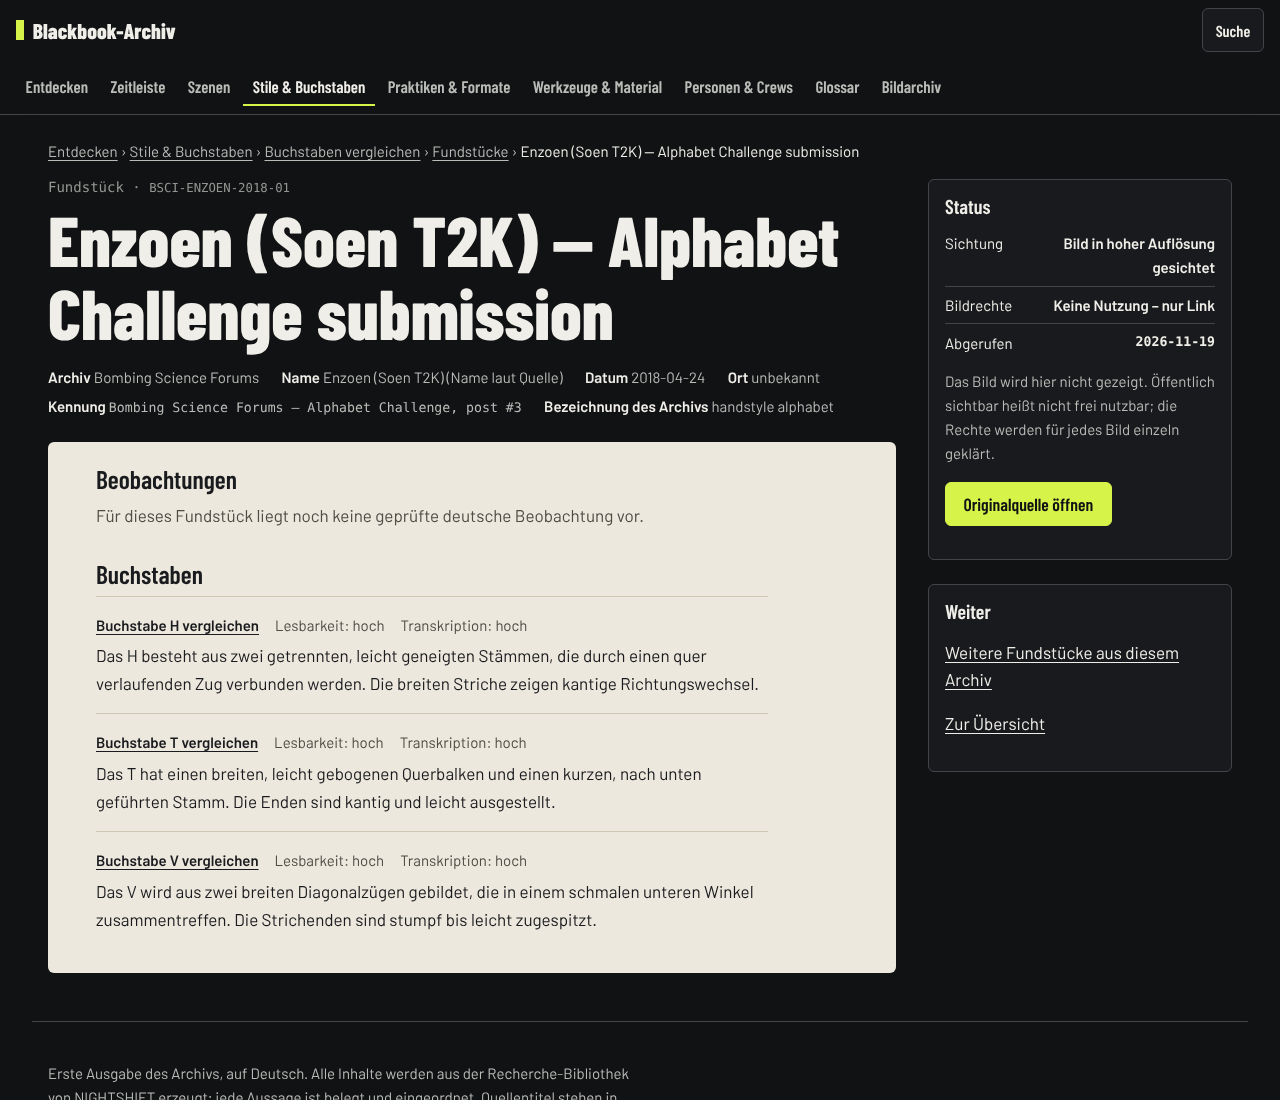
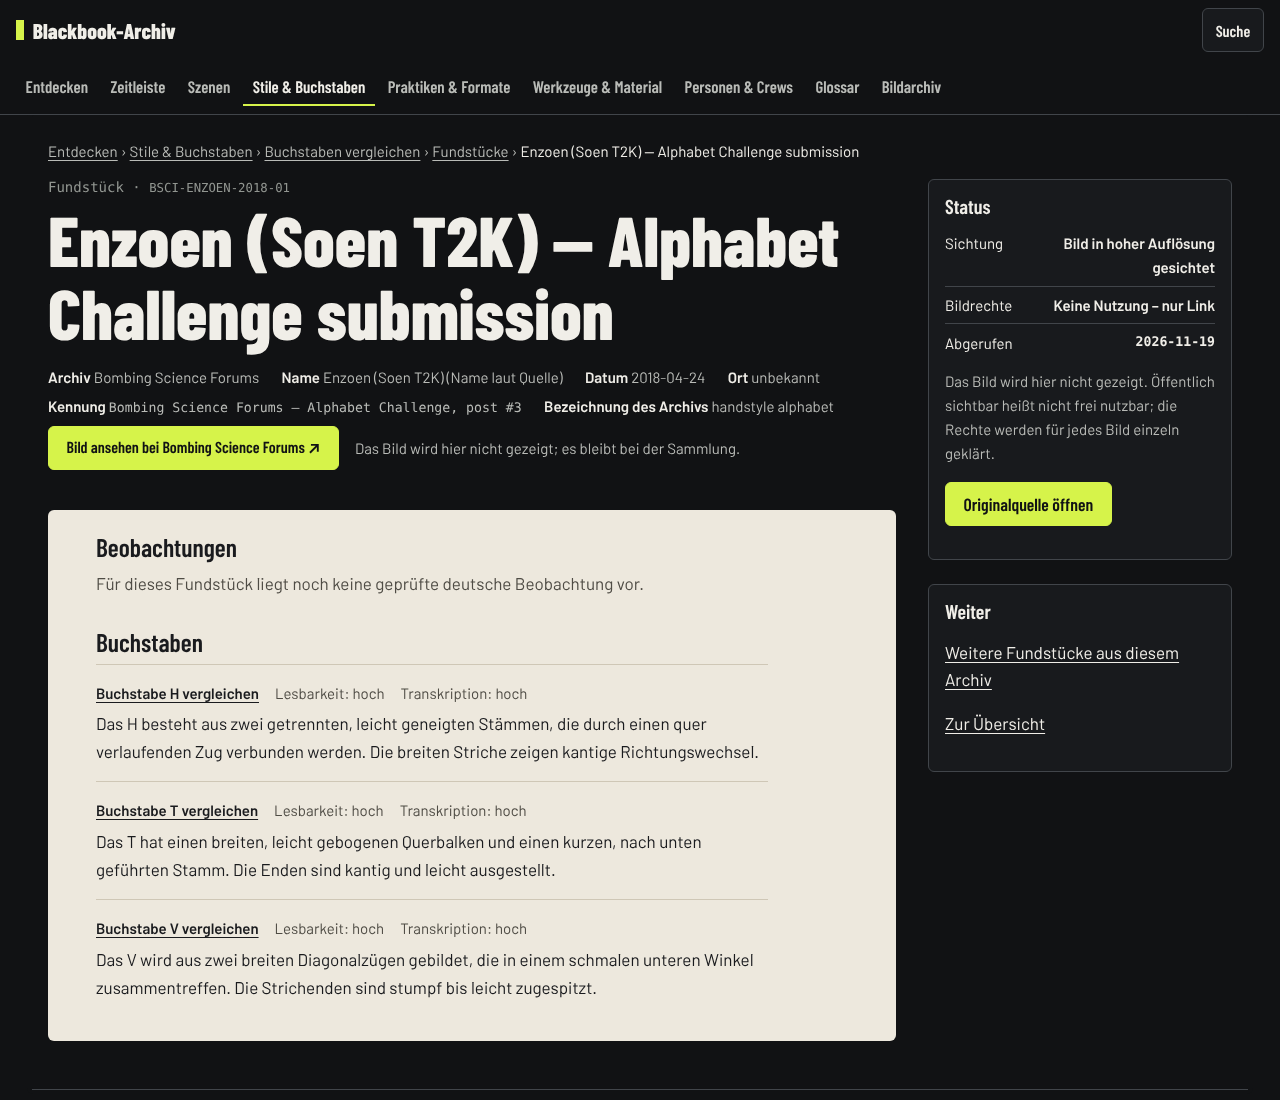
Comparison: prominent link to the original image on every card and specimen page
Images stay link-only (owner choice); the way to see the actual letter is now a
button at the top of each card instead of a small link at the bottom.

Agent: claude
Claude-Session: https://claude.ai/code/session_01FofYydZ98dQJsDhNPhugpd

Changed region(s): [[0.0312, 0.3709, 0.7188, 1.0]]

diff --git a/archive/comparison.js b/archive/comparison.js
@@ -19,6 +19,8 @@ export function comparisonViews(C, h) {
   const glyphsOf = (c) => C.glyphObservations.filter((g) => g.glyph === c);
   const findingsFor = (ids) => C.findings.filter((f) => f.observationIds.some((o) => ids.has(o)));
   const GATE_CLOSED = (g, k) => `<div class="empty"><p><strong>Buchstabenvergleich: Forschungsansicht im Aufbau.</strong></p><p>Ein Buchstabe wird erst verglichen, wenn er auf einem gesichteten Fundstück eindeutig erkennbar ist. Für den Start braucht es mindestens ${g.minEligibleGlyphObservations} solche Beobachtungen aus ${g.minIndependentInstitutions} verschiedenen Archiven bzw. Plattformen; vorhanden sind ${k.eligibleGlyphObservations} aus ${k.glyphInstitutions} (${k.glyphSources} Quellen, mehrere Quellen derselben Plattform zählen einmal). Bis dahin lassen sich die Fundstücke selbst durchsehen.</p></div>`;
+  // Images stay with the collections (link-only); this button is the way to see the actual letter.
+  const sourceBtn = (s) => `<p class="src-link"><a class="btn" href="${esc(s.itemUrl)}" rel="noopener" target="_blank">Bild ansehen bei ${esc(s.institution ?? 'der Quelle')} <span aria-hidden="true">↗</span><span class="sr"> (öffnet in neuem Tab)</span></a><span class="src-note">Das Bild wird hier nicht gezeigt; es bleibt bei der Sammlung.</span></p>`;
   const dateOf = (s) => (s.date ? `${s.dateQualifier === 'circa' ? 'um ' : ''}${s.date}` : null);
   const creatorOf = (s) => (s.creatorName ? `${esc(s.creatorName)} <span class="muted">(${esc(L.creatorAttribution[s.creatorAttribution])})</span>` : `<span class="muted">${esc(L.creatorAttribution[s.creatorAttribution])}</span>`);
 
@@ -132,6 +134,7 @@ export function comparisonViews(C, h) {
             <p class="kicker">Fundstück · <span class="mono">${esc(s.id)}</span></p>
             <h1>${esc(s.title)}</h1>
             <ul class="facts">${facts.map(([k, v]) => `<li><b>${k}</b> ${v}</li>`).join('')}</ul>
+            ${s.visualState === 'catalogue_metadata_only' ? '' : sourceBtn(s)}
           </header>
           <div class="sheet-paper"><div class="prose">
             <h2>Beobachtungen</h2>
@@ -170,10 +173,11 @@ export function comparisonViews(C, h) {
     ];
     return `<li class="cmp-card${selected ? ' is-selected' : ''}" data-cmp-card data-obs="${esc(o.id)}">
       <p class="kicker">${mode === 'feature' ? `Buchstabe ${esc(o.glyph)} · ` : ''}<span class="mono">${esc(o.id)}</span></p>
+      ${sourceBtn(s)}
       <p class="cmp-label">Direkte Beobachtung</p>
       <p class="cmp-obs">${esc(o.observationDe)}</p>
       <dl class="cmp-fields">${fields.map(([k, v]) => `<dt>${k}</dt><dd>${v}</dd>`).join('')}</dl>
-      <p class="cmp-actions">${toggleHref ? `<a class="chip" href="${toggleHref}" aria-pressed="${selected}">${selected ? 'Im Vergleich' : 'Zum Vergleich wählen'}</a>` : ''}<a href="${esc(s.itemUrl)}" rel="noopener" target="_blank">Originalquelle öffnen</a></p>
+      <p class="cmp-actions">${toggleHref ? `<a class="chip" href="${toggleHref}" aria-pressed="${selected}">${selected ? 'Im Vergleich' : 'Zum Vergleich wählen'}</a>` : ''}</p>
     </li>`;
   };
 

diff --git a/archive/app.css b/archive/app.css
@@ -252,3 +252,8 @@ mark { background: var(--bba-accent); color: var(--bba-bg); padding: 0 .1em; }
 .cmp-findings p { margin: var(--s2) 0; }
 .cmp-h3 { font-size: var(--step-1); margin: var(--s5) 0 var(--s2); }
 .cmp-findings li:first-child { border-top: 0; }
+.src-link { display: flex; flex-wrap: wrap; align-items: center; gap: var(--s2) var(--s3); margin: var(--s2) 0 var(--s3); }
+.src-link .btn { font-size: 1rem; }
+.src-note { font-size: var(--step--1); color: var(--bba-text-muted); }
+.cmp-card .src-note { color: var(--paper-muted); }
+.cmp-card .src-link .btn { color: var(--bba-bg); }

diff --git a/docs/CHANGELOG.md b/docs/CHANGELOG.md
@@ -2,9 +2,10 @@
 
 
 
-## 2026-11-20 — Archive offline cache: no stale app after a deploy (Claude)
+## 2026-11-20 — Archive: no stale app after a deploy; prominent original-image link (Claude)
 
 - After the Gate 3 deploy the owner still saw the old archive („Diesen Eintrag gibt es nicht“ on the new routes). The service worker fetched network-first, but through the browser's HTTP cache, which GitHub Pages allows to keep files for 10 minutes.
+- Comparison cards and specimen pages: the link to the original image is now a prominent button at the top („Bild ansehen bei <Archiv> ↗“), with the note that the image stays with the collection. Images remain link-only (owner choice 20.11.: no embedding, no own diagrams for now).
 - `archive/sw.js`: requests and the install pre-cache now revalidate with the server (`cache: 'no-cache'`); cache name bumped to `blackbook-archive-v4-de`, so old caches are removed on activation.
 
 ## 2026-11-20 — Letterform comparison library, Gate 3 (Claude)
